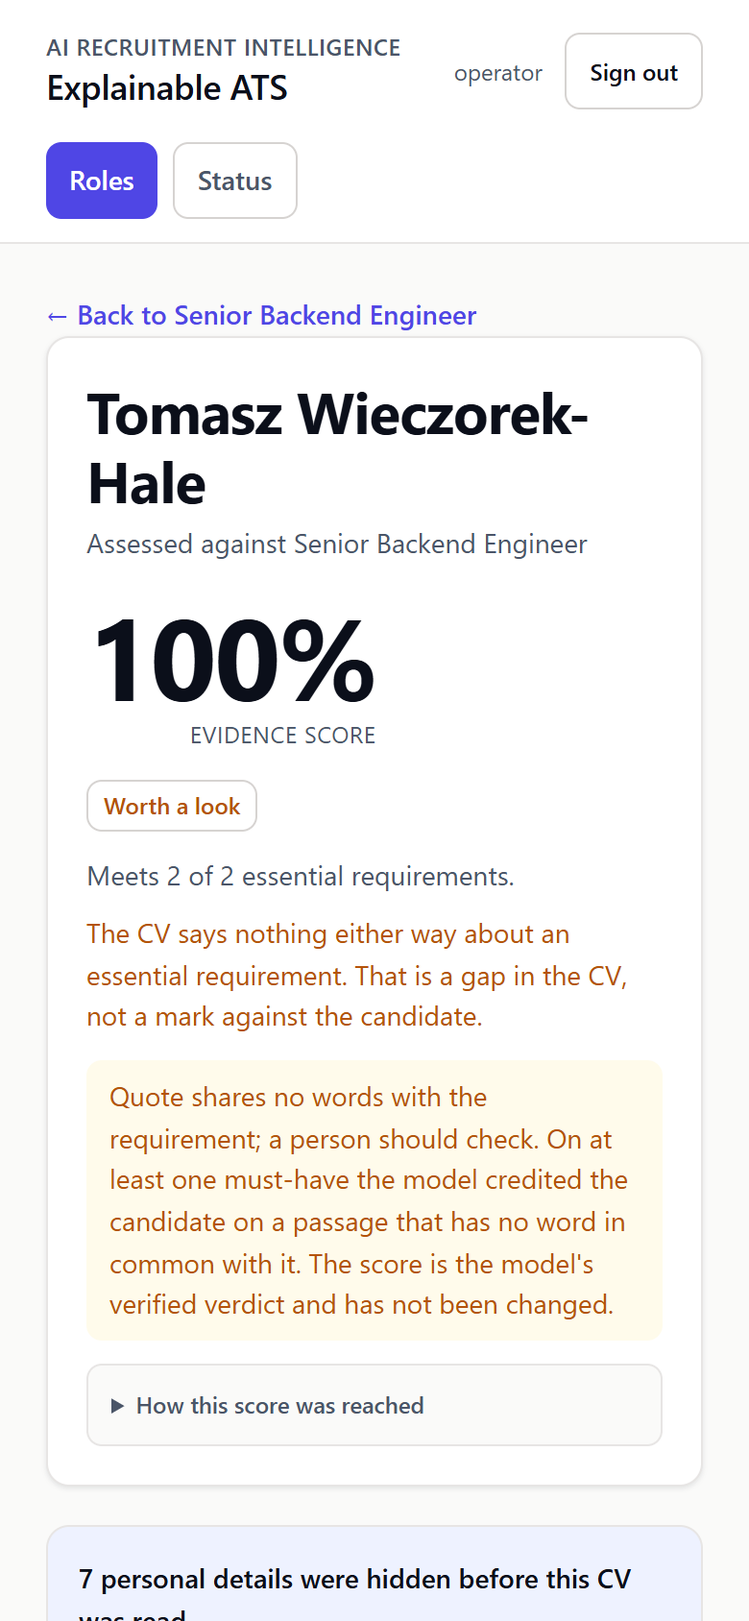
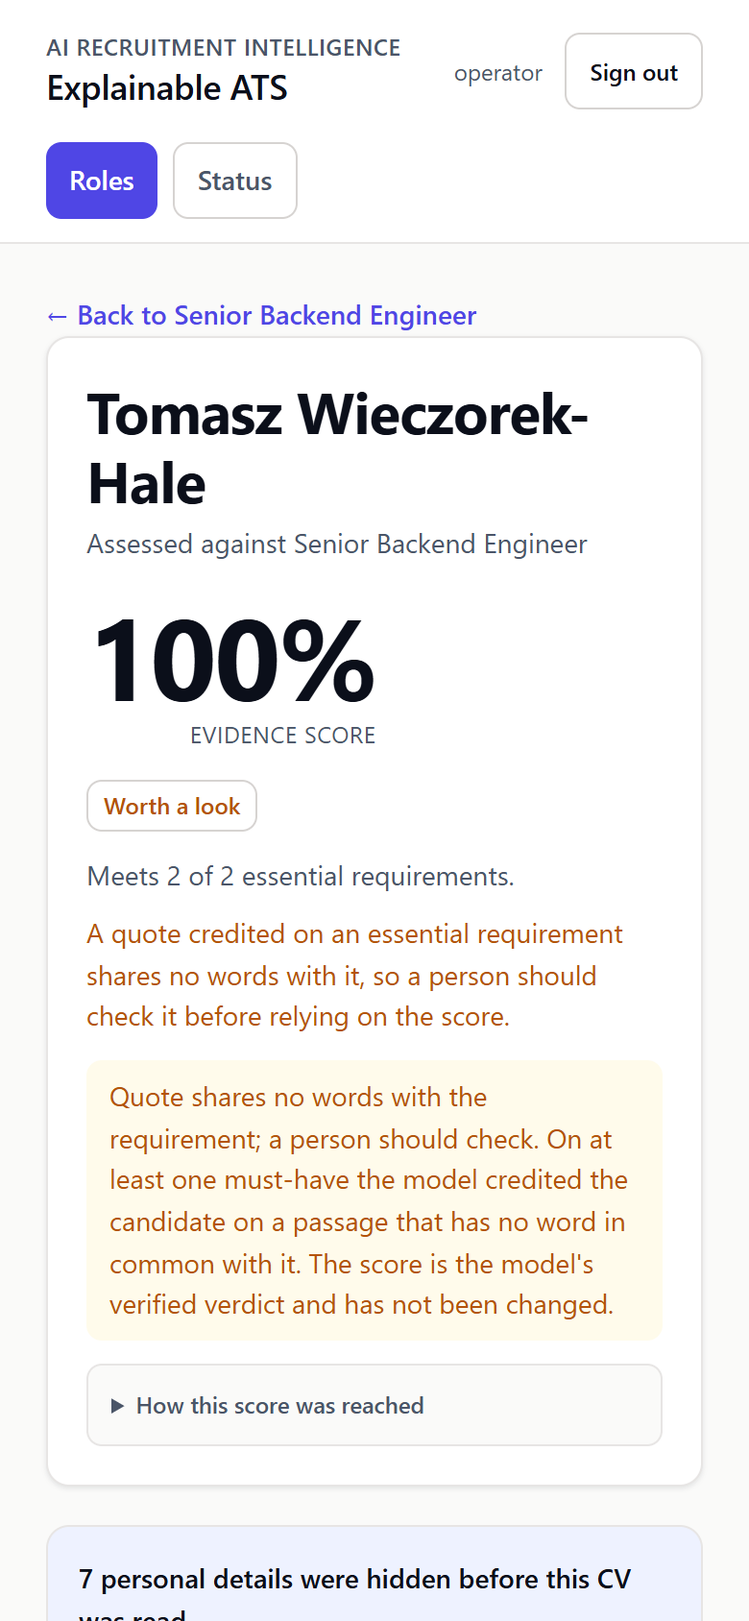
Say why a candidate is worth a look: silent must-have, flagged must-have, or both (#22)
The candidate page explained needs_review as 'the CV says nothing either way', which is false when the flag routed it. The page and the ranking sentence now depend on the reason, with tests for all three cases. Screenshots retaken from the saved reply (no request); test counts updated (886).

Changed region(s): [[0.1231, 0.5545, 0.8308, 0.6469]]

diff --git a/server/test/verdict-mode.test.ts b/server/test/verdict-mode.test.ts
@@ -531,6 +531,53 @@ test('the quotes-only path is untouched: an evaluation extracted without verdict
   }
 });
 
+// ============================================================================================ why "worth a look"
+
+test('"worth a look" has two reasons and the detail names which: a silent must-have, a flagged must-have, or both', async () => {
+  // 1. A must-have the CV is silent about (the model says unclear). No flag.
+  const silent = await run(STRONG_CV, { 'Node.js': { verdict: 'met', passages: [NODE] }, PostgreSQL: { verdict: 'unclear', passages: [] } });
+  try {
+    const detail = (await handleEvaluationDetail({ repos: silent.ctx.repos }, silent.evaluation.id)).body;
+    assert.equal(detail.tier, 'needs_review');
+    assert.deepEqual(detail.unclearMustHaves, ['PostgreSQL']);
+    assert.deepEqual(detail.flaggedMustHaves, []);
+    const ranking = await rankJob({ repos: silent.ctx.repos }, silent.job.id);
+    assert.match(ranking.entries[0]?.rationale ?? '', /said nothing about "PostgreSQL"/);
+    assert.doesNotMatch(ranking.entries[0]?.rationale ?? '', /shares no words/);
+  } finally {
+    await silent.close();
+  }
+
+  // 2. A must-have credited on a quote that shares no word with it. Nothing is silent.
+  const flagged = await run(STRONG_CV, { 'Node.js': { verdict: 'met', passages: [NODE] }, PostgreSQL: { verdict: 'met', passages: [VAGUE_DB] }, Mentoring: { verdict: 'met', passages: [MENTOR] } });
+  try {
+    const detail = (await handleEvaluationDetail({ repos: flagged.ctx.repos }, flagged.evaluation.id)).body;
+    assert.equal(detail.tier, 'needs_review');
+    assert.deepEqual(detail.unclearMustHaves, [], 'the CV is not silent about any essential requirement');
+    assert.deepEqual(detail.flaggedMustHaves, ['PostgreSQL']);
+    const ranking = await rankJob({ repos: flagged.ctx.repos }, flagged.job.id);
+    assert.match(ranking.entries[0]?.rationale ?? '', /on "PostgreSQL" the quote shares no words with the requirement; a person should check\.$/);
+    assert.doesNotMatch(ranking.entries[0]?.rationale ?? '', /said nothing/);
+  } finally {
+    await flagged.close();
+  }
+
+  // 3. Both at once: one must-have flagged, another silent.
+  const both = await run(STRONG_CV, { 'Node.js': { verdict: 'met', passages: [VAGUE_DB] }, PostgreSQL: { verdict: 'unclear', passages: [] } });
+  try {
+    const detail = (await handleEvaluationDetail({ repos: both.ctx.repos }, both.evaluation.id)).body;
+    assert.equal(detail.tier, 'needs_review');
+    assert.deepEqual(detail.flaggedMustHaves, ['Node.js']);
+    assert.deepEqual(detail.unclearMustHaves, ['PostgreSQL']);
+    const ranking = await rankJob({ repos: both.ctx.repos }, both.job.id);
+    const sentence = ranking.entries[0]?.rationale ?? '';
+    assert.match(sentence, /on "Node\.js" the quote shares no words with the requirement; a person should check\./);
+    assert.match(sentence, /also said nothing about "PostgreSQL", so that is unresolved rather than failed\./);
+  } finally {
+    await both.close();
+  }
+});
+
 // ============================================================================================ the recorded live reply
 
 test('the saved live reply (Haiku 4.5 on cv-02) replays with no request: three verdicts, their reasons, the matcher and the flag', async () => {

diff --git a/web/test/second-opinion.test.ts b/web/test/second-opinion.test.ts
@@ -3,7 +3,7 @@ import assert from 'node:assert/strict';
 import fs from 'node:fs';
 import path from 'node:path';
 import { fileURLToPath } from 'node:url';
-import { SECOND_OPINION, verdictWording } from '../src/copy.ts';
+import { NEEDS_REVIEW_REASONS, SECOND_OPINION, TIER_WORDING, tierExplanation, verdictWording } from '../src/copy.ts';
 
 // The candidate page for an assessment the model's verdicts were checked on: what the model said and why, the verified quote, the matcher's
 // verdict, and a flag where the second opinion disagrees. The component is TSX, which the test runner does not load, so what is pinned here is the
@@ -49,4 +49,29 @@ test('the types say the new fields are optional, so an assessment made the old w
   assert.match(types, /verdictMode\?: 'model_checked' \| 'matcher'/);
   assert.match(types, /disagreement: 'none' \| 'one_step' \| 'two_plus'/);
   assert.match(types, /routed: boolean/);
+});
+
+test('the tier explanation says WHY a candidate is "worth a look": silent, flagged, or both', () => {
+  // The CV is silent about an essential requirement: the gap-in-the-CV text, as before.
+  assert.equal(tierExplanation('needs_review', { unclearMustHaves: ['PostgreSQL'], flaggedMustHaves: [] }), NEEDS_REVIEW_REASONS.silent);
+  assert.match(NEEDS_REVIEW_REASONS.silent, /says nothing either way about an essential requirement/);
+  // A credited quote shares no word with the requirement: NOT "the CV says nothing".
+  const flagged = tierExplanation('needs_review', { unclearMustHaves: [], flaggedMustHaves: ['PostgreSQL'] });
+  assert.equal(flagged, 'A quote credited on an essential requirement shares no words with it, so a person should check it before relying on the score.');
+  assert.doesNotMatch(flagged, /says nothing/);
+  // Both.
+  const both = tierExplanation('needs_review', { unclearMustHaves: ['PostgreSQL'], flaggedMustHaves: ['Node.js'] });
+  assert.match(both, /says nothing either way/);
+  assert.match(both, /shares no words/);
+  // An old reply with neither field keeps the old text; every other tier keeps its own.
+  assert.equal(tierExplanation('needs_review'), NEEDS_REVIEW_REASONS.silent);
+  for (const tier of ['qualified', 'gated', 'not_evaluated'] as const) assert.equal(tierExplanation(tier, { flaggedMustHaves: ['X'] }), TIER_WORDING[tier].detail);
+});
+
+test('the candidate page takes its tier explanation from the reasons, not from the tier alone', () => {
+  const detail = fs.readFileSync(new URL('../src/screens/CandidateDetail.tsx', import.meta.url), 'utf8');
+  assert.match(detail, /data-tier-explanation/);
+  assert.match(detail, /tierExplanation\(detail\.tier, \{ unclearMustHaves: detail\.unclearMustHaves, flaggedMustHaves: detail\.flaggedMustHaves/);
+  const headline = detail.slice(detail.indexOf('function Headline'), detail.indexOf('function NothingFound'));
+  assert.doesNotMatch(headline, /\{wording\.detail\}/, 'the headline must not print the tier fixed sentence');
 });

diff --git a/web/src/copy.ts b/web/src/copy.ts
@@ -86,6 +86,27 @@ export function tierWording(tier: string): Wording {
   return TIER_WORDING[tier as Tier] ?? { label: tier, detail: '', tone: 'neutral' };
 }
 
+/**
+ * Why a candidate is "worth a look" depends on WHY. There are two reasons and they are different facts:
+ *   - the CV says nothing about an essential requirement (a verdict of "not demonstrated"): a gap in the CV;
+ *   - a quote credited on an essential requirement shares no word with it (the flag): a person should check it before the score is relied on.
+ * It can be both. For every other tier the sentence is the tier's own.
+ */
+export const NEEDS_REVIEW_REASONS = {
+  silent: 'The CV says nothing either way about an essential requirement. That is a gap in the CV, not a mark against the candidate.',
+  flagged: 'A quote credited on an essential requirement shares no words with it, so a person should check it before relying on the score.',
+  both: 'The CV says nothing either way about one essential requirement, and a quote credited on another shares no words with it. The first is a gap in the CV, not a mark against the candidate; the second should be checked by a person before the score is relied on.',
+} as const;
+
+export function tierExplanation(tier: string, reasons: { unclearMustHaves?: readonly string[]; flaggedMustHaves?: readonly string[] } = {}): string {
+  if (tier !== 'needs_review') return tierWording(tier).detail;
+  const silent = (reasons.unclearMustHaves?.length ?? 0) > 0;
+  const flagged = (reasons.flaggedMustHaves?.length ?? 0) > 0;
+  if (silent && flagged) return NEEDS_REVIEW_REASONS.both;
+  if (flagged) return NEEDS_REVIEW_REASONS.flagged;
+  return NEEDS_REVIEW_REASONS.silent;
+}
+
 export function verdictWording(verdict: string | null): Wording {
   if (verdict === null) return { label: 'Not assessed', detail: '', tone: 'neutral' };
   return VERDICT_WORDING[verdict as Verdict] ?? { label: verdict, detail: '', tone: 'neutral' };

diff --git a/server/src/handlers/evaluations.ts b/server/src/handlers/evaluations.ts
@@ -117,6 +117,8 @@ export type EvaluationDetail = {
   tier: RankTier;
   failedMustHaves: string[];
   unclearMustHaves: string[];
+  /** Essential requirements whose credited quote shares no word with them (`quote_no_overlap_flagged`): the other reason a candidate is "worth a look". */
+  flaggedMustHaves: string[];
   requirements: RequirementOutcome[];
   /** Categories and a count. Never a value — there is none stored. */
   protectedAttributes: { categories: string[]; count: number };
@@ -173,6 +175,7 @@ export async function handleEvaluationDetail(
   const needsReview = classified.tier !== 'not_evaluated' && checks.some(isRouted);
   // The same routing as the ranking (`rankReview.ts`): a credited must-have whose quote shares no word with the requirement puts the candidate with a person.
   const tier: RankTier = needsReview ? 'needs_review' : classified.tier;
+  const flaggedMustHaves = needsReview ? requirements.filter((requirement) => checks.some((check) => check.requirementId === requirement.id && isRouted(check))).map((requirement) => requirement.label) : [];
 
   const matchByRequirement = new Map(matches.map((match) => [match.requirementId, match]));
   const evidenceByRequirement = new Map<string, EvidenceView[]>();
@@ -200,6 +203,7 @@ export async function handleEvaluationDetail(
       tier,
       failedMustHaves,
       unclearMustHaves,
+      flaggedMustHaves,
       requirements: requirements.map((requirement) => {
         const match = matchByRequirement.get(requirement.id) ?? null;
         return {

diff --git a/server/src/agent/rankReview.ts b/server/src/agent/rankReview.ts
@@ -60,7 +60,11 @@ export function routeToReview(ranking: Ranking, routed: ReadonlyMap<string, read
         rationale:
           `${place} Scored ${formatScore(entry.scoreBasisPoints ?? 0)} and meets ${entry.mustHavesMet} of ${entry.mustHavesTotal} must-haves, ` +
           `but on ${labels.map((label) => `"${label}"`).join(', ')} the quote shares no words with the requirement; ` +
-          'a person should check.',
+          'a person should check.' +
+          // A candidate can be worth a look for two reasons at once: say both, not only the flag.
+          (entry.unclearMustHaves.length > 0
+            ? ` The resume also said nothing about ${entry.unclearMustHaves.map((label) => `"${label}"`).join(', ')}, so that is unresolved rather than failed.`
+            : ''),
       };
     }
     return { ...renumbered, rationale: PLACE_SENTENCE.test(entry.rationale) ? entry.rationale.replace(PLACE_SENTENCE, place) : entry.rationale };

diff --git a/web/src/screens/CandidateDetail.tsx b/web/src/screens/CandidateDetail.tsx
@@ -18,6 +18,7 @@ import {
   kindLabel,
   outcomeWording,
   SECOND_OPINION,
+  tierExplanation,
   tierWording,
   toneClass,
   verdictWording,
@@ -69,7 +70,9 @@ function Headline({ detail, demo = false }: { detail: EvaluationDetail; demo?: b
         ) : null}
       </div>
 
-      <p className={`mt-2 text-small ${toneClass(wording.tone)}`}>{wording.detail}</p>
+      <p data-tier-explanation className={`mt-2 text-small ${toneClass(wording.tone)}`}>
+        {tierExplanation(detail.tier, { unclearMustHaves: detail.unclearMustHaves, flaggedMustHaves: detail.flaggedMustHaves ?? [] })}
+      </p>
 
       {detail.needsReview ? (
         <p data-second-opinion-banner className="mt-3 rounded-control bg-signal-tint px-3 py-2 text-small text-signal">

diff --git a/web/src/api/types.ts b/web/src/api/types.ts
@@ -153,6 +153,8 @@ export type EvaluationDetail = {
   tier: string;
   failedMustHaves: string[];
   unclearMustHaves: string[];
+  /** Essential requirements whose credited quote shares no word with them. Absent from older replies. */
+  flaggedMustHaves?: string[];
   requirements: RequirementOutcome[];
   /** Categories and a count. There is no value to send. */
   protectedAttributes: { categories: string[]; count: number };

diff --git a/docs/TESTING.md b/docs/TESTING.md
@@ -8,13 +8,13 @@ Run from a clean checkout, with the two portfolio repositories checked out besid
 
 | Suite | `npm test` reports | Test cases | Passed | Failed | Skipped |
 |---|---|---|---|---|---|
-| Server (`server/test/`) | 672 | 667 | 672 | 0 | 0 |
-| Web (`web/test/`) | 211 | 210 | 211 | 0 | 0 |
-| **Total** | **883** | **877** | **883** | **0** | **0** |
+| Server (`server/test/`) | 673 | 668 | 673 | 0 | 0 |
+| Web (`web/test/`) | 213 | 212 | 213 | 0 | 0 |
+| **Total** | **886** | **880** | **886** | **0** | **0** |
 
-In a standalone clone, with no portfolio repository beside it, the same commands report 883 with **871 passed and 12 skipped** (11 server parity tests and 1 web test that read the portfolio's code). Nothing fails: the skipped tests say where they looked.
+In a standalone clone, with no portfolio repository beside it, the same commands report 886 with **874 passed and 12 skipped** (11 server parity tests and 1 web test that read the portfolio's code). Nothing fails: the skipped tests say where they looked.
 
-Node's runner treats every `.ts` file under `test/` as a test file and counts a helper module that loads cleanly as one passing test. Six such modules (`fixtures.ts`, `helpers.ts`, `demoHarness.ts`, `portfolioFixture.ts` and `hostileCvs.ts` on the server, `jsxScan.ts` on the web side) are in the reported totals. The real number of test cases is 667 and 210, so 877.
+Node's runner treats every `.ts` file under `test/` as a test file and counts a helper module that loads cleanly as one passing test. Six such modules (`fixtures.ts`, `helpers.ts`, `demoHarness.ts`, `portfolioFixture.ts` and `hostileCvs.ts` on the server, `jsxScan.ts` on the web side) are in the reported totals. The real number of test cases is 668 and 212, so 880.
 
 Typecheck, lint and the web build also pass. There are no browser or end-to-end tests: the web tests run as plain Node, over pure modules and static scans of the source.
 
@@ -61,13 +61,13 @@ Fifty-two test files (39 server, 13 web), in eight groups.
 |---|---|---|
 | [Trust and safety](#trust-and-safety) | 6 | 71 |
 | [Pipeline stages](#pipeline-stages) | 9 | 144 |
-| [Verdict checking and evaluation](#verdict-checking-and-evaluation) | 5 | 63 |
+| [Verdict checking and evaluation](#verdict-checking-and-evaluation) | 5 | 64 |
 | [Data integrity](#data-integrity) | 4 | 53 |
 | [API and auth](#api-and-auth) | 5 | 89 |
 | [LLM provider behaviour](#llm-provider-behaviour) | 3 | 93 |
-| [Demo and UI](#demo-and-ui) | 19 (6 server, 13 web) | 349 |
+| [Demo and UI](#demo-and-ui) | 19 (6 server, 13 web) | 351 |
 | [Repo hygiene](#repo-hygiene) | 1 | 15 |
-| **Total** | **52** | **877** |
+| **Total** | **52** | **880** |
 
 ### Trust and safety
 
@@ -102,7 +102,7 @@ These protect the second half of the design (the model proposes, the code checks
 
 | File | Tests | What it proves | Why it matters |
 |---|---|---|---|
-| `verdict-mode.test.ts` | 23 | The scale (`met` 3, `partial` 2, `unclear` 1, `not_met` 0). The model's answer is read strictly. A verdict with no verified passage reads `unclear`; `not_met` needs a verified explicit negative and silence is never `not_met`. Enforcement can only lower a verdict. Nothing the matcher says changes the verdict. A credited quote that shares no word with the requirement is flagged, and routes the candidate only on a must-have. The score from verdicts equals the matcher's scorer on all 50 evaluation-CV and mode combinations. Negation, keyword stuffing, the eight hostile CVs (the guarantees that hold, and the one that does not any more), and the saved live reply, which replays with no request. | The model's verdict is checked by code, and the change in what is guaranteed is written down in a test. |
+| `verdict-mode.test.ts` | 24 | The scale (`met` 3, `partial` 2, `unclear` 1, `not_met` 0). The model's answer is read strictly. A verdict with no verified passage reads `unclear`; `not_met` needs a verified explicit negative and silence is never `not_met`. Enforcement can only lower a verdict. Nothing the matcher says changes the verdict. A credited quote that shares no word with the requirement is flagged, and routes the candidate only on a must-have. The score from verdicts equals the matcher's scorer on all 50 evaluation-CV and mode combinations. Negation, keyword stuffing, the eight hostile CVs (the guarantees that hold, and the one that does not any more), and the saved live reply, which replays with no request. | The model's verdict is checked by code, and the change in what is guaranteed is written down in a test. |
 | `eval-set.test.ts` | 16 | The set is twenty invented CVs over two roles, in files that exist, carrying only reserved contact details. Redaction masks every one. The labels file has the five columns and one row for each pair, and the validator catches each kind of mistake. | The yardstick is well-formed before anything is scored against it. |
 | `eval-heldout.test.ts` | 11 | The five held-out CVs are invented and masked, the held-out labels file is empty and stays empty, and the validator treats it as such. Every results file must carry the exact label provenance, and a reworded or missing one fails. | The held-out set is never labelled by accident, and no result can claim stronger labels than it has. |
 | `evalMetrics.test.ts` | 9 | Passage overlap and the two hit rules, recall and precision (a verified passage for a requirement with no gold passage is a miss), empty denominators as null, verdict agreement and which way the misses go, tiers by the application's own rule. | The numbers in the evaluation are computed by code that is itself tested. |
@@ -149,7 +149,7 @@ These protect the second half of the design (the model proposes, the code checks
 | `recruiter-ui`, `deployment-mode`, `hook-order` (web) | 39 | Every verdict, outcome and tier has recruiter wording. No screen computes a score or re-sorts the ranking. The mode is read from the server and never guessed. No component calls a hook after an early return. | The browser shows what the server decided and nothing else. |
 | `decision-wording` (web) | 4 | A recruiter's three outcomes are labelled Shortlist, Reject and Hold. The word "advance" appears nowhere in `web/src`, and "review" is never listed as a decision. | The demo's prose once kept saying "advance, review or reject" after the buttons were renamed, so the demo contradicted the app it describes. |
 | `assess` (web) | 12 | A job draft and a CV draft become valid requests, or every problem is named at once. Weights must be whole numbers in range. The form limits are the numbers the server enforces. | The forms cannot send what the server would refuse. |
-| `second-opinion` (web) | 4 | The candidate page shows the model's verdict and reason, the matcher's verdict and the flag "Quote shares no words with the requirement; a person should check.", and wording for a verdict the code lowered. | What the recruiter reads about the second opinion is pinned. |
+| `second-opinion` (web) | 6 | The candidate page shows the model's verdict and reason, the matcher's verdict and the flag "Quote shares no words with the requirement; a person should check.", and wording for a verdict the code lowered. | What the recruiter reads about the second opinion is pinned. |
 
 ### Repo hygiene
 

diff --git a/README.md b/README.md
@@ -12,7 +12,7 @@ Screens a CV against a role and explains every placement with the exact sentence
 - **Nothing counts until it is checked.** Every quote is looked up verbatim in the original CV. A quote that isn't there is stored as rejected and never shown or scored, and a `met`, `partial` or `not_met` verdict left with no verified quote reads `unclear`. A CV that says nothing about a requirement is `unclear`, never `not_met`.
 - **Everything after the verdicts is reproducible.** Scores are integers you can recompute by hand, rankings are derived on every read, and an append-only audit trail records each step. A rule-based matcher reads the same verified quotes as a second opinion: it is shown to the recruiter and never changes a score. A credited verdict whose quote shares no word with the requirement is flagged, and on a must-have it sends the candidate to `needs_review`.
 - **Stack.** Node 24 and TypeScript (run directly, no build step), Express 5, SQLite or PostgreSQL behind one interface, React 19 with Vite and Tailwind. The server has three runtime dependencies: `express`, `pg` and the Anthropic SDK.
-- **Tests.** With the two portfolio repositories checked out beside this one (as CI does), `npm test` reports 883 passing, 0 failing and 0 skipped (672 server, 211 web). Six of those are helper modules the runner counts, so there are 877 test cases. In a standalone clone the parity tests, which need the portfolio sites, are skipped. [What they protect](docs/TESTING.md).
+- **Tests.** With the two portfolio repositories checked out beside this one (as CI does), `npm test` reports 886 passing, 0 failing and 0 skipped (673 server, 213 web). Six of those are helper modules the runner counts, so there are 880 test cases. In a standalone clone the parity tests, which need the portfolio sites, are skipped. [What they protect](docs/TESTING.md).
 - **Where it stands.** A portfolio project. The public demo uses the deterministic mock extractor, a keyword matcher, in place of the model, on five invented candidates. The running app calls the real model when a signed-in recruiter starts an assessment, and it has been evaluated once, on invented data: on 2026-10-19 Claude Haiku 4.5 read twenty invented CVs and its verdicts agreed with 86.8% of 68 labels (Labels drafted by ChatGPT; reviewed independently by ChatGPT and Claude (agreed on 64 of 68 rows); final decisions approved by Sameer. Not an independent human labelling.) One model, one run. See [Evaluation](#evaluation) for the numbers and what they do not show, and [Limitations](#limitations).
 
 ## Run it locally
@@ -80,7 +80,7 @@ The code uses one set of words and the screens use another. This is the mapping 
 | `not_met` | The CV speaks to it and falls short, with the quote that shows it (an explicit "I have not ..." in `model_checked` mode) | **Does not meet** |
 | `unclear` | No verified quote at all. The CV is silent either way. A verdict whose quotes were not found in the CV also reads `unclear` | **Not demonstrated** |
 | `qualified` | Every must-have is `met` | **Meets every must-have** |
-| `needs_review` | No must-have failed, but at least one was `unclear` | **Worth a look** |
+| `needs_review` | No must-have failed, but at least one was `unclear`, or a credited must-have quote shares no word with its requirement (the flag). The page says which | **Worth a look** |
 | `gated` | A must-have was addressed and is `partial` or `not_met` | **Missing an essential** |
 | `not_evaluated` | No scored evaluation for this job | **Not assessed yet** |
 | `shortlist` | Decision: move the candidate forward | **Shortlist** |
@@ -107,7 +107,7 @@ The detail, with a diagram of each stage's inputs and outputs, the data model, r
 
   ![A candidate page: 100% score, "Worth a look", the flag "Quote shares no words with the requirement; a person should check", and two requirements each with the model's verdict and reason, the matcher's verdict and the flag](docs/images/model-checked-candidate.png)
 
-  *One live run of Claude Haiku 4.5 on an invented CV (cv-02), 2026-10-19.* The model's reply is kept in `docs/results/replay-2026-10-19-cv-02-claude-haiku-4-5-20251001.json`, and `server/scripts/live-replay.ts --replay=<that file>` runs it through the pipeline again with no request, so the page can be shown again without calling the model. All three flags are paraphrases the word-counting check cannot see ("the V8 runtime that most people just call Node" for Node.js, "Postgres" for PostgreSQL, "coached" for mentored); the labels say `met` for all three, so here the flag is the matcher's blind spot, shown for a person to glance at, not a mistake by the model.
+  *One live run of Claude Haiku 4.5 on an invented CV (cv-02), 2026-10-19, shown again from the saved reply with no new request.* The model's reply is kept in `docs/results/replay-2026-10-19-cv-02-claude-haiku-4-5-20251001.json`, and `server/scripts/live-replay.ts --replay=<that file>` runs it through the pipeline again with no request, so the page can be shown again without calling the model. All three flags are paraphrases the word-counting check cannot see ("the V8 runtime that most people just call Node" for Node.js, "Postgres" for PostgreSQL, "coached" for mentored); the labels say `met` for all three, so here the flag is the matcher's blind spot, shown for a person to glance at, not a mistake by the model.
 - **A ranking explains itself.** Each entry carries a sentence: *"Scored 71% and meets 1 of 2 must-haves. The evidence found does not demonstrate "PostgreSQL". Placed below every candidate who meets all of them, however high that score is — the score itself is unchanged."*
 
 ## Privacy and redaction
@@ -247,8 +247,8 @@ A demo decision is recorded as the fixed actor `demo-visitor` and reuses the rec
 Tests use Node's built-in runner on both sides. No test needs a credential, a network or a database server. [docs/TESTING.md](docs/TESTING.md) explains what each group of tests protects and walks through eight of them.
 
 ```bash
-cd server && npm test        # 672 reported: 667 test cases and 5 helper modules
-cd web && npm test           # 211 reported: 210 test cases and 1 helper module
+cd server && npm test        # 673 reported: 668 test cases and 5 helper modules
+cd web && npm test           # 213 reported: 212 test cases and 1 helper module
 ```
 
 `server/test/demo-parity.test.ts` compares this pipeline with the browser-demo runner in the separate `sameer-3d-portfolio` repository, and with the copy of that runner in the `portfolio` repository (the 2D site). Each comparison runs against every copy it can find. It finds the 3D runner through `PORTFOLIO_DEMO_DIR`, then `../sameer-3d-portfolio/src/demo/p3`, then `../../sameer-3d-portfolio/sameer-3d-portfolio/src/demo/p3`. The 2D copy is looked for at `../portfolio/src/demo/p3`, or at `PORTFOLIO_2D_DEMO_DIR` if that is set. If no copy holds `run.ts` the 11 parity tests are reported as skipped, as they are in a standalone clone. CI (`.github/workflows/ci.yml`, two jobs on Node 24, no secrets) checks both portfolio repositories out first (the branch of the same name if there is one, otherwise `main`), runs `npm audit --audit-level=high`, and treats a missing sibling as a failure, not a skip, so nothing is skipped there.

diff --git a/docs/ARCHITECTURE.md b/docs/ARCHITECTURE.md
@@ -147,7 +147,7 @@ The README has a [worked example](../README.md#scoring) you can recompute with a
 |---|---|
 | `qualified` | `mustHavesMet >= mustHavesTotal` |
 | `gated` | At least one must-have is not `met` and was **addressed** (`partial` or `not_met`) |
-| `needs_review` | Every missed must-have is `unclear`: the CV said nothing either way |
+| `needs_review` | Every missed must-have is `unclear` (the CV said nothing either way), **or** a credited must-have has the `quote_no_overlap` flag (its quote shares no word with the requirement). The candidate page and the ranking sentence say which, or both |
 | `not_evaluated` | No evaluation, or one that was never scored |
 
 Candidates sort by tier, then score (highest first), then must-haves met, then evaluation time, then candidate id, which is a stable but arbitrary final tie-break. Candidates who tie on tier, score and must-haves share a competition rank (1, 2, 2, 4) and are reported as tied.
